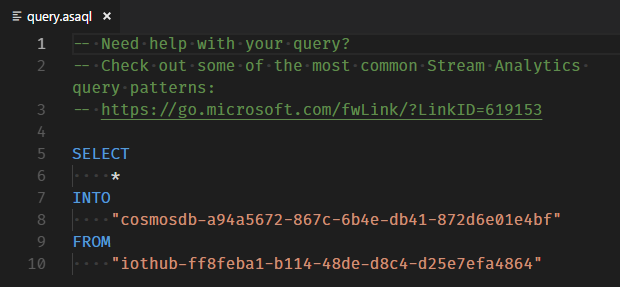
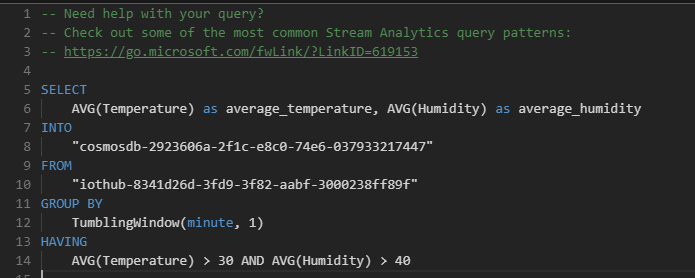
sixth commit

diff --git a/docs/esp32/esp32-stream-analytics-cosmos-db.md b/docs/esp32/esp32-stream-analytics-cosmos-db.md
@@ -61,22 +61,13 @@ You can change Azure Stream Analytics Job Query by editing `StreamAnalytics/quer
 
 ![Azure Stream Analytics Query](media/iot-workbench-stream-analytics-and-cosmos-db-query.png)
 
-Output and input have already been generated automatically by default (in the example above, the output is `cosmosdb-a94a5672-867c-6b4e-db41-872d6e01e4bf`, and input is `iothub-ff8feba1-b114-48de-d8c4-d25e7efa4864`). And you have no need to change them. `*` means selecting data in all fields, which is the same as SQL.
+Output and input have already been generated automatically by default (in the example above, the output is `cosmosdb-2923606a-2f1c-e8c0-74e6-037933217447`, and input is `iothub-8341d26d-3fd9-3f82-aabf-3000238ff89f`). And you have no need to change them. `AVG(Temperature) as average_temperature, AVG(Humidity) as average_humidity` means calculating the average of variable `Temperature` and `Humidity` and represent them as `average_temperature` and `average_humidity` respectively.
 
-
-You can select specific field data from input and export it into output. For example, your device sends data in the following JSON format:
-
-```json
-{
-    "temperature": 42
-}
-```
-
-You can write query as below:
+You can select data in all fileds by writing query as below.
 
 ```sql
 SELECT
-    average_temperature
+    *
 FROM
     "iothub-8341d26d-3fd9-3f82-aabf-3000238ff89f"
 INTO
@@ -97,7 +88,7 @@ GROUP BY
 ```
 
 
-You can design the conditions used to store the data into cosmosdb. In this example, only if average temperature larger than 30 and average humidity larger than 40 over past one minute will the data be saved.
+You can design the conditions need to be satisfied to store the data into cosmosdb. In this example, only when average temperature is larger than 30 and average humidity is larger than 40 over past one minute will the data be saved.
 
 ```sql
 SELECT
